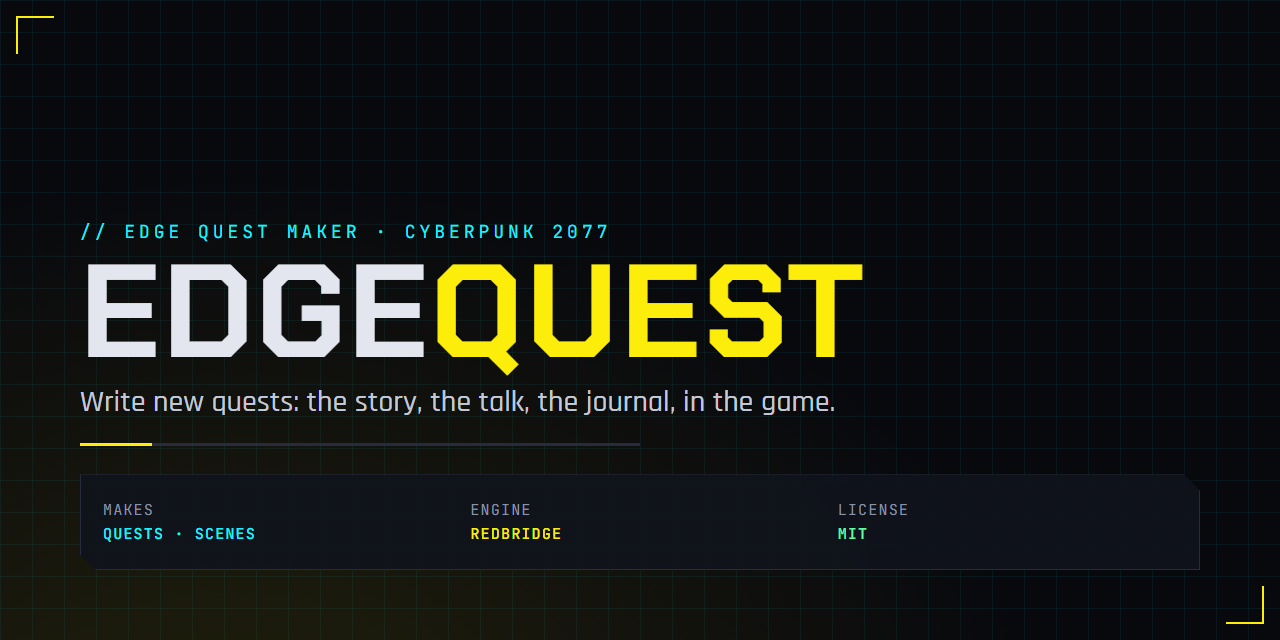
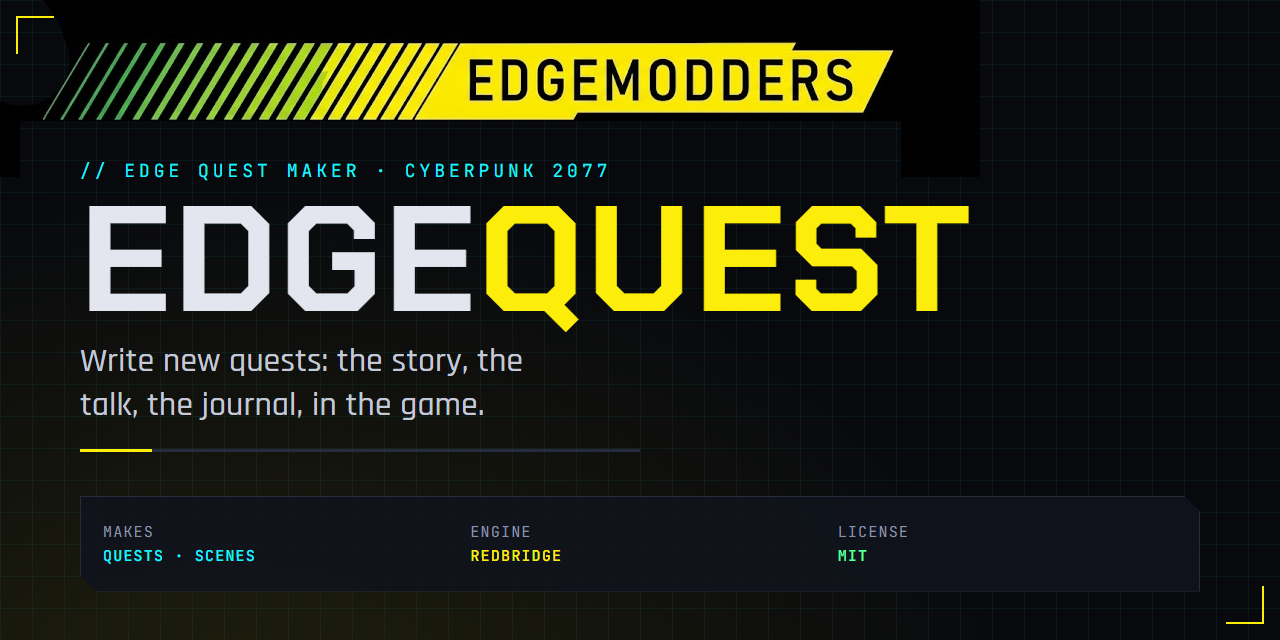
Nexus: the owner's description pulled (two screenshots), the picture with the owner's header
The Nexus picture's source goes back to the 55 px layout the owner's header was put on.

diff --git a/tools/brand/brand.html b/tools/brand/brand.html
@@ -3,9 +3,10 @@
      Rendered to PNG by tools/brand/render.ps1 with headless Chrome:
        brand.html?banner  -> 1280 x 320
        brand.html?social  -> 1280 x 640
-       brand.html?nexus   -> 1280 x 640, the social layout lower and tighter, with room at the top for
-                             the EDGEmodders header the owner adds by hand: its first line starts
-                             where REDsave's does (about y 228), below the header (about y 175) -->
+       brand.html?nexus   -> 1280 x 640, the social layout 55 px lower, with room at the top for the
+                             EDGEmodders header the owner adds by hand (as REDsave's). The committed
+                             nexus.png has the owner's header on it: render.ps1 draws over it, so
+                             put the header on again after a redraw -->
 <html lang="en">
 <head>
 <meta charset="utf-8">
@@ -40,7 +41,7 @@ html, body { margin: 0; background: var(--bg); color: var(--fg); }
     var(--bg);
 }
 .social .frame, .nexus .frame { height: 640px; padding: 72px 80px; grid-template-columns: 1fr; gap: 44px; align-content: center; }
-.nexus .frame { padding-top: 167px; padding-bottom: 17px; gap: 28px; }
+.nexus .frame { padding-top: 127px; padding-bottom: 17px; }
 
 /* corner brackets */
 .frame::before, .frame::after {
@@ -60,9 +61,6 @@ h1 span { color: var(--yellow); }
 .social h1, .nexus h1 { font-size: 150px; }
 .social .eyebrow, .nexus .eyebrow { font-size: 18px; }
 .social .tag, .nexus .tag { font-size: 34px; max-width: 44ch; }
-/* The Nexus picture's stack is shorter than the social one's, so it clears the header (as REDsave's does). */
-.nexus h1 { font-size: 132px; }
-.nexus .tag { font-size: 30px; max-width: none; }
 
 .panel {
   background: rgba(16,19,27,.92); border: 1px solid var(--line); padding: 18px 22px;

diff --git a/nexus/README.md b/nexus/README.md
@@ -21,7 +21,7 @@ The page is kept through Nexus's v3 API, as REDnode's, REDcode's and the other E
 | Brief overview | The EDGE quest maker in VS Code: read the game's quests in plain words, and write your own as a story with beats, choices, places, music and sound. A VS Code extension, not a game mod. (255 characters at most; this is 184) |
 | Author | Edgemodders |
 | Language | English |
-| Primary image | `docs/assets/brand/nexus.png` (1280 x 640): the social picture lower and tighter, with room at the top for the EDGEmodders header the owner adds by hand, its first line where REDsave's starts (`tools/brand/brand.html?nexus`, drawn by `tools/brand/render.ps1`). Or `social.png`. The banner is already at the top of the description |
+| Primary image | `docs/assets/brand/nexus.png` (1280 x 640): the social picture 55 px lower, with the EDGEmodders header the owner added at the top (2026-11-04; `tools/brand/brand.html?nexus`, drawn by `tools/brand/render.ps1`, which draws over the header: put it on again after a redraw). Or `social.png`. The banner is already at the top of the description |
 | Requirements | On Nexus: REDcode (35421) and ArchiveXL (4198). Off-site: VS Code 1.70 or later (or VSCodium, or EDGEkit) |
 | Permissions | MIT: open source, free to modify and redistribute with the license notice. Bundled packages keep their licenses (`ThirdPartyNotices.txt`). REDbridge, a separate download, is GPL-3.0 |
 | Tags | Modders resource, utility, tools, quests |
@@ -51,7 +51,7 @@ The release workflow builds it whenever it builds EDGEquest (`tools/nexus-zip.mj
 
 The key: in CI the organisation secret `NEXUS_KEY`; on the dev PC the DPAPI file `%APPDATA%\Edgemodders\nexus-key.txt` (`tools/nexus/api.mjs`). Never print it or pass it on a command line.
 
-Pulled on 2026-11-03: the live description was Nexus's empty template (`nexus.json` records it), so the first release with **Update Nexus Mods** pushes this one.
+Pulled on 2026-11-03: the live description was Nexus's empty template. The owner then put this description on the page with two screenshots (images hosted by Nexus, under the opening line), pulled 2026-11-04: the repo's copy is the live one, so the first release pushes no description change.
 
 Keep these in step with the extension (its README and the CHANGELOG):
 
